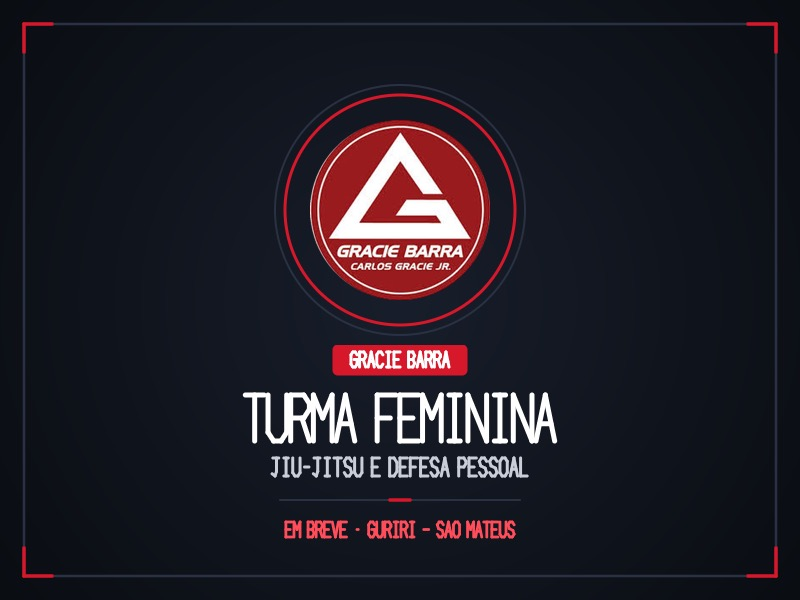
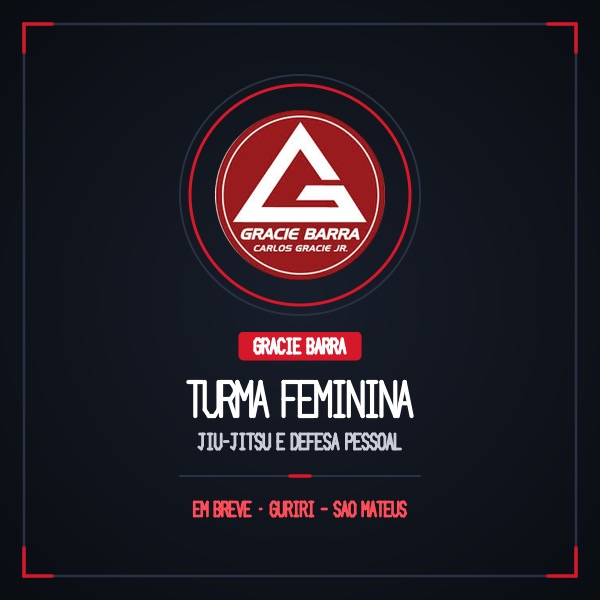
fix(modalidades): padroniza cards com altura igual e imagens quadradas 1:1

Changed region(s): [[0.3, 0.12, 0.72, 0.9], [0.9, 0.03, 0.99, 0.99], [0.0, 0.03, 0.09, 0.99]]

diff --git a/index.html b/index.html
@@ -126,7 +126,7 @@
           <div style="position: relative; border-radius: 6px; overflow: hidden; background: #1A1F2B;">
             <picture>
               <source srcset="assets/img/hero-academia.webp" type="image/webp">
-              <img src="assets/img/hero-academia.jpg" alt="Alunos e professores da Gracie Barra São Mateus reunidos no tatame, de kimono branco e azul" width="1206" height="500" loading="eager" fetchpriority="high" style="display: block; width: 100%; aspect-ratio: 1206 / 500; min-height: 260px; object-fit: cover; object-position: 30% 50%;">
+              <img src="assets/img/hero-academia.jpg" alt="Alunos e professores da Gracie Barra São Mateus reunidos no tatame, de kimono branco e azul" width="1206" height="500" loading="eager" fetchpriority="high" style="display: block; width: 100%; height: auto; aspect-ratio: 1206 / 500; min-height: 260px; object-fit: cover; object-position: 30% 50%;">
             </picture>
             <div style="position: absolute; left: 20px; bottom: 20px; background: #FFFFFF; color: #11141B; border-radius: 6px; padding: 14px 18px; display: flex; align-items: center; gap: 16px; box-shadow: 0 12px 32px rgba(0,0,0,0.35);">
               <span aria-hidden="true" style="display: inline-flex; justify-content: flex-end; width: 72px; height: 14px; padding-right: 10px; box-sizing: border-box; background: #11141B; border-radius: 2px;"><span style="width: 22px; height: 14px; background: var(--accent);"></span></span>
@@ -217,13 +217,15 @@
             <p style="margin: 0; max-width: 420px; font-size: 17px; line-height: 1.6; color: #3A4150;">Do primeiro treino à competição, cada aluno encontra a turma certa para a sua fase.</p>
           </div>
 
-          <div style="display: grid; grid-template-columns: repeat(auto-fit, minmax(min(100%, 260px), 1fr)); gap: 20px;">
+          <div class="gb-modalidades-grid" style="display: grid; grid-template-columns: repeat(auto-fit, minmax(min(100%, 260px), 1fr)); gap: 20px; align-items: stretch;">
             <!-- Modalidade Gi -->
-            <article style="background: #FFFFFF; border: 1px solid #E1E4EA; border-radius: 6px; overflow: hidden; display: flex; flex-direction: column;">
-              <picture>
-                <source srcset="assets/img/modalidade-gi.webp" type="image/webp">
-                <img src="assets/img/modalidade-gi.jpg" alt="Alunos de kimono branco no tatame da Gracie Barra São Mateus" width="600" height="450" loading="lazy" style="display: block; width: 100%; aspect-ratio: 4 / 3; object-fit: cover; border-bottom: 1px solid #E1E4EA;">
-              </picture>
+            <article class="gb-modalidade-card" style="background: #FFFFFF; border: 1px solid #E1E4EA; border-radius: 6px; overflow: hidden; display: flex; flex-direction: column; height: 100%;">
+              <div class="gb-modalidade-media">
+                <picture>
+                  <source srcset="assets/img/modalidade-gi.webp" type="image/webp">
+                  <img src="assets/img/modalidade-gi.jpg" alt="Alunos de kimono branco no tatame da Gracie Barra São Mateus" width="600" height="450" loading="lazy" style="display: block; width: 100%; height: 100%; aspect-ratio: 1 / 1; object-fit: cover;">
+                </picture>
+              </div>
               <div style="flex: 1; padding: 24px; display: flex; flex-direction: column; gap: 12px;">
                 <span style="align-self: flex-start; display: inline-flex; align-items: center; height: 24px; padding: 0 10px; border-radius: 3px; background: var(--blue); color: #FFFFFF; font-size: 12px; font-weight: 700; letter-spacing: 0.08em;">GI</span>
                 <h3 style="margin: 0; font-family: var(--font-heading); font-weight: 800; font-size: 30px; line-height: 1; text-transform: uppercase;">Jiu-Jitsu Gi</h3>
@@ -236,11 +238,13 @@
             </article>
 
             <!-- Modalidade No-Gi -->
-            <article style="background: #FFFFFF; border: 1px solid #E1E4EA; border-radius: 6px; overflow: hidden; display: flex; flex-direction: column;">
-              <picture>
-                <source srcset="assets/img/modalidade-nogi.webp" type="image/webp">
-                <img src="assets/img/modalidade-nogi.jpg" alt="Tatame azul e área de preparação física da academia" width="1316" height="765" loading="lazy" style="display: block; width: 100%; aspect-ratio: 4 / 3; object-fit: cover; object-position: 80% 60%; border-bottom: 1px solid #E1E4EA;">
-              </picture>
+            <article class="gb-modalidade-card" style="background: #FFFFFF; border: 1px solid #E1E4EA; border-radius: 6px; overflow: hidden; display: flex; flex-direction: column; height: 100%;">
+              <div class="gb-modalidade-media">
+                <picture>
+                  <source srcset="assets/img/modalidade-nogi.webp" type="image/webp">
+                  <img src="assets/img/modalidade-nogi.jpg" alt="Tatame azul e área de preparação física da academia" width="1316" height="765" loading="lazy" style="display: block; width: 100%; height: 100%; aspect-ratio: 1 / 1; object-fit: cover; object-position: 80% 60%;">
+                </picture>
+              </div>
               <div style="flex: 1; padding: 24px; display: flex; flex-direction: column; gap: 12px;">
                 <span style="align-self: flex-start; display: inline-flex; align-items: center; height: 24px; padding: 0 10px; border-radius: 3px; background: var(--accent); color: #FFFFFF; font-size: 12px; font-weight: 700; letter-spacing: 0.08em;">NO-GI</span>
                 <h3 style="margin: 0; font-family: var(--font-heading); font-weight: 800; font-size: 30px; line-height: 1; text-transform: uppercase;">No-Gi</h3>
@@ -252,11 +256,13 @@
             </article>
 
             <!-- Modalidade Kids -->
-            <article style="background: #FFFFFF; border: 1px solid #E1E4EA; border-radius: 6px; overflow: hidden; display: flex; flex-direction: column;">
-              <picture>
-                <source srcset="assets/img/modalidade-kids.webp" type="image/webp">
-                <img src="assets/img/modalidade-kids.jpg" alt="Turma kids da Gracie Barra São Mateus reunida no tatame" width="1360" height="907" loading="lazy" style="display: block; width: 100%; aspect-ratio: 4 / 3; object-fit: cover; object-position: 50% 65%; border-bottom: 1px solid #E1E4EA;">
-              </picture>
+            <article class="gb-modalidade-card" style="background: #FFFFFF; border: 1px solid #E1E4EA; border-radius: 6px; overflow: hidden; display: flex; flex-direction: column; height: 100%;">
+              <div class="gb-modalidade-media">
+                <picture>
+                  <source srcset="assets/img/modalidade-kids.webp" type="image/webp">
+                  <img src="assets/img/modalidade-kids.jpg" alt="Turma kids da Gracie Barra São Mateus reunida no tatame" width="760" height="506" loading="lazy" style="display: block; width: 100%; height: 100%; aspect-ratio: 1 / 1; object-fit: cover; object-position: 50% 65%;">
+                </picture>
+              </div>
               <div style="flex: 1; padding: 24px; display: flex; flex-direction: column; gap: 12px;">
                 <span style="align-self: flex-start; display: inline-flex; align-items: center; height: 24px; padding: 0 10px; border-radius: 3px; background: #11141B; color: #FFFFFF; font-size: 12px; font-weight: 700; letter-spacing: 0.08em;">KIDS</span>
                 <h3 style="margin: 0; font-family: var(--font-heading); font-weight: 800; font-size: 30px; line-height: 1; text-transform: uppercase;">Turma Kids</h3>
@@ -268,11 +274,13 @@
             </article>
 
             <!-- Modalidade Feminina (Card Institucional / Em breve) -->
-            <article style="background: #FFFFFF; border: 1px solid #E1E4EA; border-radius: 6px; overflow: hidden; display: flex; flex-direction: column;">
-              <picture>
-                <source srcset="assets/img/modalidade-feminina.webp" type="image/webp">
-                <img src="assets/img/modalidade-feminina.jpg" alt="Gracie Barra São Mateus — Turma Feminina" width="800" height="600" loading="lazy" style="display: block; width: 100%; aspect-ratio: 4 / 3; object-fit: cover; border-bottom: 1px solid #E1E4EA;">
-              </picture>
+            <article class="gb-modalidade-card" style="background: #FFFFFF; border: 1px solid #E1E4EA; border-radius: 6px; overflow: hidden; display: flex; flex-direction: column; height: 100%;">
+              <div class="gb-modalidade-media">
+                <picture>
+                  <source srcset="assets/img/modalidade-feminina.webp" type="image/webp">
+                  <img src="assets/img/modalidade-feminina.jpg" alt="Gracie Barra São Mateus — Turma Feminina" width="600" height="600" loading="lazy" style="display: block; width: 100%; height: 100%; aspect-ratio: 1 / 1; object-fit: cover;">
+                </picture>
+              </div>
               <div style="flex: 1; padding: 24px; display: flex; flex-direction: column; gap: 12px;">
                 <span style="align-self: flex-start; display: inline-flex; align-items: center; height: 24px; padding: 0 10px; border-radius: 3px; background: #11141B; color: #FFFFFF; font-size: 12px; font-weight: 700; letter-spacing: 0.08em;">FEMININA</span>
                 <h3 style="margin: 0; font-family: var(--font-heading); font-weight: 800; font-size: 30px; line-height: 1; text-transform: uppercase;">Turma Feminina</h3>
@@ -441,7 +449,7 @@
           <div style="position: relative; flex: 1 1 300px; max-width: 380px;">
             <picture>
               <source srcset="assets/img/professor-mucio.webp" type="image/webp">
-              <img src="assets/img/professor-mucio.jpg" alt="Mestre Múcio Maia de kimono branco da Gracie Barra, apontando para a faixa preta" width="454" height="1090" loading="lazy" style="display: block; width: 100%; aspect-ratio: 3 / 5; object-fit: cover; object-position: 50% 0%; border-radius: 6px;">
+              <img src="assets/img/professor-mucio.jpg" alt="Mestre Múcio Maia de kimono branco da Gracie Barra, apontando para a faixa preta" width="454" height="1090" loading="lazy" style="display: block; width: 100%; height: auto; aspect-ratio: 3 / 5; object-fit: cover; object-position: 50% 0%; border-radius: 6px;">
             </picture>
             <span aria-hidden="true" style="position: absolute; left: 0; right: 0; bottom: 0; height: 6px; background: var(--accent); border-radius: 0 0 6px 6px;"></span>
           </div>

diff --git a/assets/css/styles.css b/assets/css/styles.css
@@ -49,6 +49,7 @@ body {
 
 img, picture, svg {
   max-width: 100%;
+  height: auto;
   display: block;
 }
 
@@ -175,6 +176,50 @@ a:hover {
   opacity: 0.25 !important;
   filter: grayscale(40%);
   transition: opacity 0.2s ease, filter 0.2s ease;
+}
+
+/* --------------------------------------------------------------------------
+   5b. Modalidades Grid & Square Media Cards
+   -------------------------------------------------------------------------- */
+.gb-modalidades-grid {
+  display: grid;
+  grid-template-columns: repeat(auto-fit, minmax(min(100%, 260px), 1fr));
+  gap: 20px;
+  align-items: stretch;
+}
+
+.gb-modalidade-card {
+  background: #FFFFFF;
+  border: 1px solid #E1E4EA;
+  border-radius: 6px;
+  overflow: hidden;
+  display: flex;
+  flex-direction: column;
+  height: 100%;
+}
+
+.gb-modalidade-media {
+  position: relative;
+  width: 100%;
+  aspect-ratio: 1 / 1;
+  overflow: hidden;
+  border-bottom: 1px solid #E1E4EA;
+  background: #151925;
+  flex-shrink: 0;
+}
+
+.gb-modalidade-media picture {
+  display: block;
+  width: 100%;
+  height: 100%;
+}
+
+.gb-modalidade-media img {
+  display: block;
+  width: 100%;
+  height: 100% !important;
+  aspect-ratio: 1 / 1;
+  object-fit: cover;
 }
 
 /* --------------------------------------------------------------------------

diff --git a/scripts/create_assets.py b/scripts/create_assets.py
@@ -310,11 +310,11 @@ def convert_bmp_to_jpg(bmp_path, jpg_path, quality="high"):
 # -------------------------------------------------------------
 def generate_modalidade_feminina():
     print("Generating modalidade-feminina.jpg...")
-    w, h = 800, 600
+    w, h = 600, 600
     buf = bytearray(w * h * 3)
 
     # Base background: Deep rich dark blue-slate #151925 with subtle vignette
-    # Center (cx=400, cy=300)
+    # Center (cx=300, cy=300)
     cx, cy = w / 2.0, h / 2.0
     max_dist = math.hypot(cx, cy)
     for y in range(h):
@@ -352,48 +352,48 @@ def generate_modalidade_feminina():
     draw_line(buf, w, h, w - 24, h - 24, w - 24, h - 24 - corner_len, (215, 24, 42), 2.5)
 
     # Circular ambient halo behind logo
-    draw_circle(buf, w, h, 400, 210, 115, (215, 24, 42), 2.0)
-    draw_circle(buf, w, h, 400, 210, 125, (42, 49, 66), 1.0)
+    draw_circle(buf, w, h, 300, 195, 110, (215, 24, 42), 2.0)
+    draw_circle(buf, w, h, 300, 195, 120, (42, 49, 66), 1.0)
 
-    # Scale logo to 180x180 and composite in center
-    scaled_logo = os.path.join(SCRATCH_DIR, "logo_180.png")
+    # Scale logo to 170x170 and composite in center
+    scaled_logo = os.path.join(SCRATCH_DIR, "logo_170.png")
     subprocess.run([
-        'sips', '-z', '180', '180',
+        'sips', '-z', '170', '170',
         os.path.join(IMG_DIR, "logo.png"),
         '--out', scaled_logo
     ], check=True, stdout=subprocess.DEVNULL)
 
     lw, lh, l_rgba = load_png_rgba(scaled_logo)
-    composite_rgba(buf, w, h, l_rgba, lw, lh, (w - lw) // 2, 210 - lh // 2)
+    composite_rgba(buf, w, h, l_rgba, lw, lh, (w - lw) // 2, 195 - lh // 2)
 
     # Red Pill Badge: "GRACIE BARRA"
     badge_txt = "GRACIE BARRA"
-    badge_tw = get_text_width(badge_txt, 15, letter_spacing=2.5)
-    badge_w = badge_tw + 36
-    badge_h = 30
+    badge_tw = get_text_width(badge_txt, 14, letter_spacing=2.2)
+    badge_w = badge_tw + 32
+    badge_h = 28
     bx1 = (w - badge_w) / 2
-    by1 = 345
+    by1 = 332
     draw_filled_rounded_rect(buf, w, h, bx1, by1, bx1 + badge_w, by1 + badge_h, 5, (215, 24, 42), alpha=1.0)
-    draw_text(buf, w, h, badge_txt, bx1 + 18, by1 + 7, 15, (255, 255, 255), 2.0, letter_spacing=2.5)
+    draw_text(buf, w, h, badge_txt, bx1 + 16, by1 + 7, 14, (255, 255, 255), 2.0, letter_spacing=2.2)
 
     # Title: "TURMA FEMININA"
     title_txt = "TURMA FEMININA"
-    title_tw = get_text_width(title_txt, 46, letter_spacing=4.0)
-    draw_text(buf, w, h, title_txt, (w - title_tw) / 2, 395, 46, (255, 255, 255), 4.0, letter_spacing=4.0)
+    title_tw = get_text_width(title_txt, 34, letter_spacing=2.5)
+    draw_text(buf, w, h, title_txt, (w - title_tw) / 2, 382, 34, (255, 255, 255), 3.2, letter_spacing=2.5)
 
     # Subtitle: "JIU-JITSU E DEFESA PESSOAL"
     sub_txt = "JIU-JITSU E DEFESA PESSOAL"
-    sub_tw = get_text_width(sub_txt, 18, letter_spacing=3.0)
-    draw_text(buf, w, h, sub_txt, (w - sub_tw) / 2, 458, 18, (201, 206, 216), 2.0, letter_spacing=3.0)
+    sub_tw = get_text_width(sub_txt, 15, letter_spacing=2.0)
+    draw_text(buf, w, h, sub_txt, (w - sub_tw) / 2, 434, 15, (201, 206, 216), 1.8, letter_spacing=2.0)
 
-    # Horizontal divider line with red diamond/dot
-    draw_line(buf, w, h, 280, 500, 520, 500, (42, 49, 66), 1.0)
-    draw_line(buf, w, h, 390, 500, 410, 500, (215, 24, 42), 2.5)
+    # Horizontal divider line with red accent centered at 300
+    draw_line(buf, w, h, 180, 476, 420, 476, (42, 49, 66), 1.0)
+    draw_line(buf, w, h, 290, 476, 310, 476, (215, 24, 42), 2.5)
 
     # Footer note: "EM BREVE · GURIRI – SAO MATEUS"
     foot_txt = "EM BREVE · GURIRI – SAO MATEUS"
-    foot_tw = get_text_width(foot_txt, 15, letter_spacing=2.0)
-    draw_text(buf, w, h, foot_txt, (w - foot_tw) / 2, 522, 15, (255, 77, 90), 1.8, letter_spacing=2.0)
+    foot_tw = get_text_width(foot_txt, 14, letter_spacing=1.8)
+    draw_text(buf, w, h, foot_txt, (w - foot_tw) / 2, 502, 14, (255, 77, 90), 1.7, letter_spacing=1.8)
 
     bmp_out = os.path.join(SCRATCH_DIR, "modalidade-feminina.bmp")
     jpg_out = os.path.join(IMG_DIR, "modalidade-feminina.jpg")
